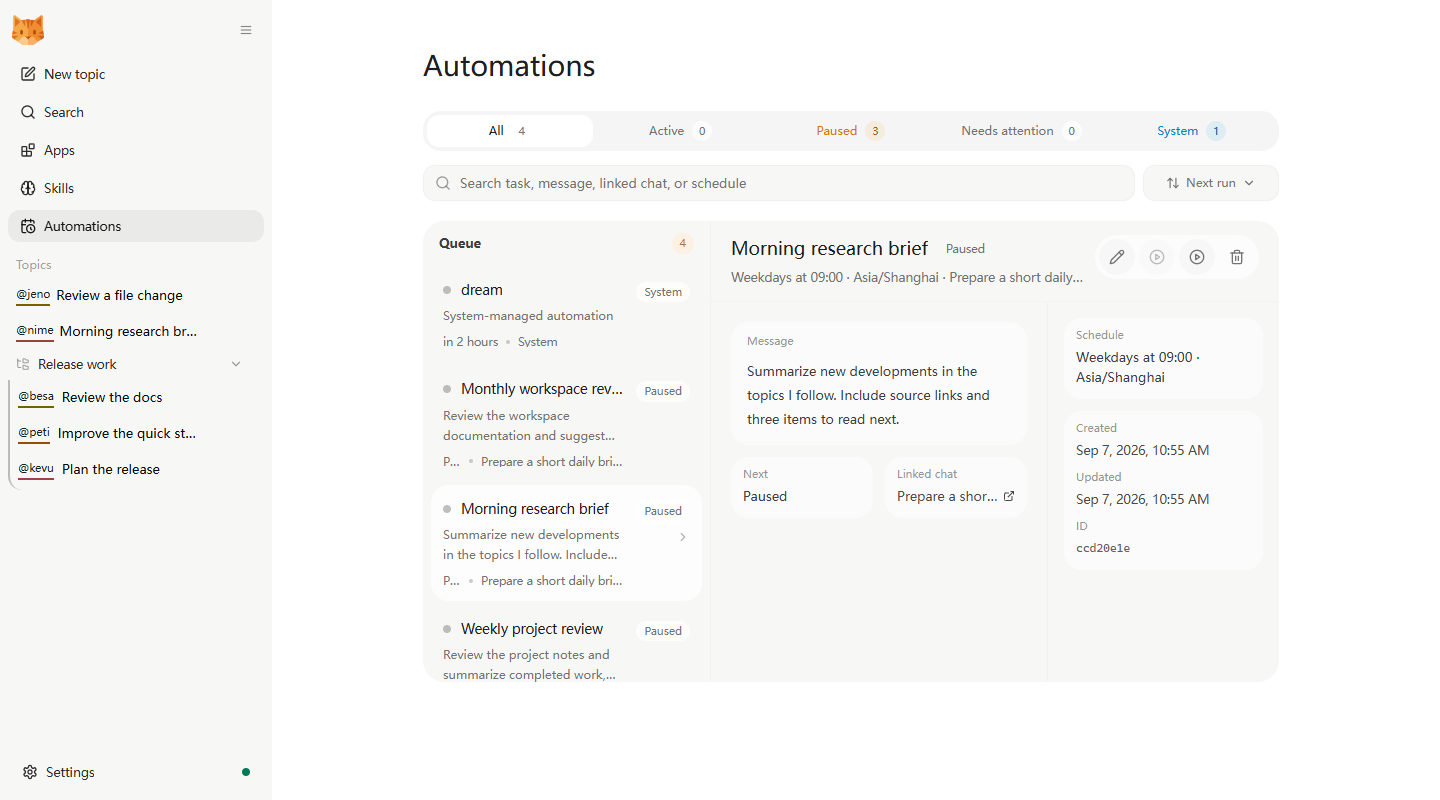
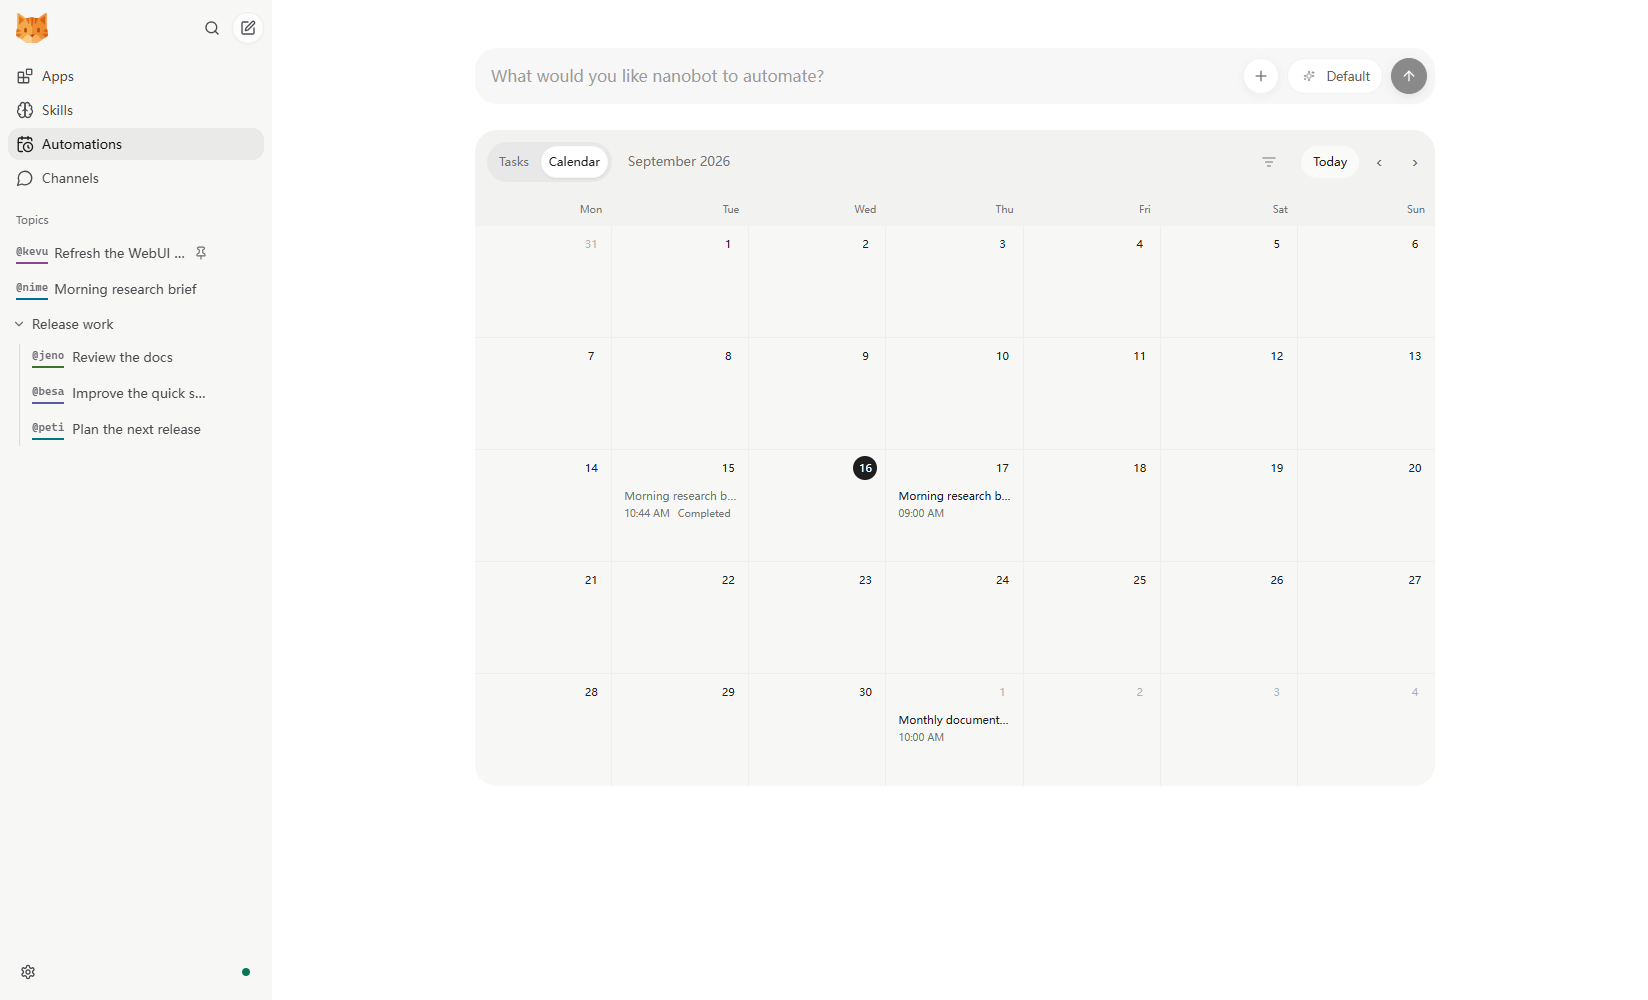
docs: refresh README WebUI screenshots (#5789)

diff --git a/README.md b/README.md
@@ -269,7 +269,7 @@ The screenshots below use example conversations, illustrative token counts, and 
 
 <p align="center">
   <a href="./images/nanobot_webui-source.png">
-    <img src="./images/nanobot_webui.png" alt="nanobot WebUI preview with model, project, Apps, Skills, and Automations controls" width="900">
+    <img src="./images/nanobot_webui.png" alt="nanobot WebUI new-topic screen with the hero composer, workspace access, project, and model controls" width="900">
   </a>
 </p>
 
@@ -313,10 +313,10 @@ Use Apps to connect MCP servers, enable Agent Plugins, and manage local CLI App 
 
 ### Let recurring work run on a schedule
 
-Ask for an automation from the topic that should receive its results. Review the message, schedule, linked chat, and run history in Automations; pause or edit it as your needs change. Local triggers let a script start a saved task on demand.
+Ask for an automation from the topic that should receive its results. Use **Tasks** to review and manage schedules, or **Calendar** to scan completed and upcoming runs by date. Local triggers let a script start a saved task on demand.
 
 <p align="center">
-  <img src="./images/nanobot-automations.png" alt="The Automations view with example recurring tasks, a selected daily brief, its schedule, linked chat, and management controls" width="900">
+  <img src="./images/nanobot-automations.png" alt="The Automations calendar with completed and upcoming recurring tasks arranged by date" width="900">
 </p>
 
 Keep the gateway running for scheduled delivery. [Explore Automations →](./docs/automations.md)
